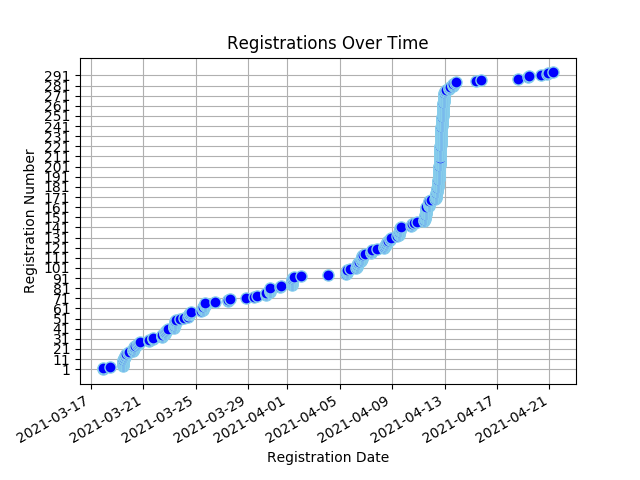
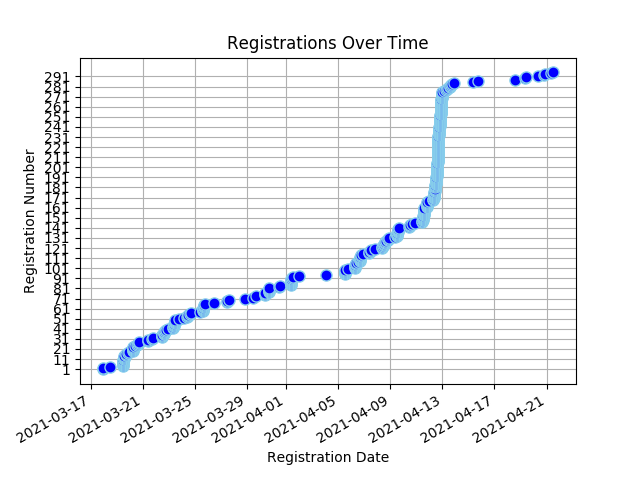
Registree stats backup on Wed 21 Apr 2021 12:57:30 SAST

diff --git a/content/registrees/_index.md b/content/registrees/_index.md
@@ -3,7 +3,7 @@ title: Registration Stats
 draft: false
 ---
 
-<ul><li><strong>Number of Registrees</strong>: 294</li>
+<ul><li><strong>Number of Registrees</strong>: 295</li>
 
 <li><strong>Number of Clubs</strong>: 69</li>
 
@@ -33,6 +33,6 @@ draft: false
         </tr>
     </thead>
     <tbody>
-<tr><td>Natalie Abrahams</td><td>Cape Town</td><td>410W</td></tr><tr><td>Alan Abramsohn</td><td>Milnerton</td><td>410W</td></tr><tr><td>Janine Abramsohn</td><td>Sea Point</td><td>410W</td></tr><tr><td>Rashid Adams</td><td>Athlone</td><td>410W</td></tr><tr><td>Linda Anderson</td><td>George</td><td>410W</td></tr><tr><td>Neale Stewart ANDREWS</td><td>Cowies Hill</td><td>410E</td></tr><tr><td>Linda Baumgarten</td><td>Sea Point</td><td>410W</td></tr><tr><td>Ulrike Behrens</td><td>Windhoek</td><td>410W</td></tr><tr><td>Cathleen Benade</td><td>Rehoboth</td><td>410W</td></tr><tr><td>Valencia Beukes-Williams</td><td>Kuilsriver</td><td>410W</td></tr><tr><td>Belinda Blakeman</td><td>North Durban</td><td>410E</td></tr><tr><td>Belinda Blakeman</td><td>North Durban</td><td>410E</td></tr><tr><td>Mel Boswell</td><td>Nelspruit</td><td>410E</td></tr><tr><td>Lyn(ette) Botha</td><td>Cowies Hill</td><td>410E</td></tr><tr><td>JOSE BRAGA BORGES</td><td>Malmesbury</td><td>410W</td></tr><tr><td>Paul Brauteseth</td><td>Port Shepstone</td><td>410E</td></tr><tr><td>Byron Brooker</td><td>Pretoria South</td><td>410E</td></tr><tr><td>Nelle Buhrmann</td><td>Sea Point</td><td>410W</td></tr><tr><td>Christopher Bull</td><td>The Wilds</td><td>410E</td></tr><tr><td>Karin Byars</td><td>Manzini</td><td>410E</td></tr><tr><td>Herman Cadman</td><td>Stellenbosch</td><td>410W</td></tr><tr><td>Artemis Calomiris</td><td>Helderberg</td><td>410W</td></tr><tr><td>Linda Ann Cannone</td><td>Fish Hoek</td><td>410W</td></tr><tr><td>Petrus Carstens</td><td>Worcester</td><td>410W</td></tr><tr><td>Lizelle Castle</td><td>Athlone</td><td>410W</td></tr><tr><td>Sue Charles</td><td>Tokai</td><td>410W</td></tr><tr><td>Lionel Chazen</td><td>Edenvale</td><td>410E</td></tr><tr><td>Perry Chetty</td><td>East Coast</td><td>410E</td></tr><tr><td>Tanyaradzwa Chinyai</td><td>Groote Schuur</td><td>410W</td></tr><tr><td>Delaney Yeltsin Cloete</td><td>Eden</td><td>410W</td></tr><tr><td>Kate Coppen</td><td>Letaba Tzaneen</td><td>410E</td></tr><tr><td>Esme Cornelius</td><td>Kuilsriver</td><td>410W</td></tr><tr><td>Sharon Cottle</td><td>Groote Schuur</td><td>410W</td></tr><tr><td>Joel d'Offay</td><td>Milnerton</td><td>410W</td></tr><tr><td>Peter Daniel</td><td>Gordons Bay</td><td>410W</td></tr><tr><td>Norma Daniel</td><td>Gordons Bay</td><td>410W</td></tr><tr><td>Melanie Davids</td><td>Alberton</td><td>410E</td></tr><tr><td>Engela de Kock</td><td>Swellendam</td><td>410W</td></tr><tr><td>Francois de Kock</td><td>Swellendam</td><td>410W</td></tr><tr><td>Charlotte de Silva</td><td>Edenvale</td><td>410E</td></tr><tr><td>ANDRE DE VILLIERS</td><td>Malgas</td><td>410W</td></tr><tr><td>Lara De Wet</td><td>Edenvale</td><td>410E</td></tr><tr><td>Benita Diener</td><td>Mitchells Plain</td><td>410W</td></tr><tr><td>Freda Dodd</td><td>Table View</td><td>410W</td></tr><tr><td>Peggy Du Plooy</td><td>Krugersdorp</td><td>410E</td></tr><tr><td>Ivan Du Plooy</td><td>Krugersdorp</td><td>410E</td></tr><tr><td>Tammy du Plooy</td><td>Alberton</td><td>410E</td></tr><tr><td>Marc du Plooy</td><td>Alberton</td><td>410E</td></tr><tr><td>Desiree du Toit</td><td>Ramsgate</td><td>410E</td></tr><tr><td>Hanè Dunn</td><td>Swellendam</td><td>410W</td></tr><tr><td>Glynn Easton</td><td>Helderkruin</td><td>410E</td></tr><tr><td>Denise Easton</td><td>Helderkruin</td><td>410E</td></tr><tr><td>Johan Els</td><td>Wilro Park</td><td>410E</td></tr><tr><td>Fadia Ely</td><td>Athlone</td><td>410W</td></tr><tr><td>Abubakr Ely</td><td>Deep South</td><td>410W</td></tr><tr><td>Freddie Erasmus</td><td>Uitenhage</td><td>410E</td></tr><tr><td>Natalie Etridge</td><td>Sedgefield</td><td>410W</td></tr><tr><td>AIDAN Ewers</td><td>Newlands</td><td>410W</td></tr><tr><td>Beate Fahrbach</td><td>Windhoek</td><td>410W</td></tr><tr><td>Roger Fahrbach</td><td>Windhoek</td><td>410W</td></tr><tr><td>Jules Flanagan</td><td>Tokai</td><td>410W</td></tr><tr><td>Charles Flanagan</td><td>Tokai</td><td>410W</td></tr><tr><td>Jéan Fouché</td><td>Worcester</td><td>410W</td></tr><tr><td>Michele Fourie</td><td>Merriman</td><td>410W</td></tr><tr><td>Lucille Fourie</td><td>Pretoria South</td><td>410E</td></tr><tr><td>Clive Fox</td><td>Merriman</td><td>410W</td></tr><tr><td>Pat Fox</td><td>Merriman</td><td>410W</td></tr><tr><td>Kelvin Foxcroft</td><td>Helderkruin</td><td>410E</td></tr><tr><td>Katherine Foxcroft</td><td>Helderkruin</td><td>410E</td></tr><tr><td>Jenny Foxcroft</td><td>Helderkruin</td><td>410E</td></tr><tr><td>Martin Froise</td><td>Letaba Tzaneen</td><td>410E</td></tr><tr><td>Allison Georges</td><td>Cape Of Good Hope</td><td>410W</td></tr><tr><td>Bernd Gerhard</td><td>Wilro Park</td><td>410E</td></tr><tr><td>Shirley Gerhard</td><td>Wilro Park</td><td>410E</td></tr><tr><td>Valerie Graham</td><td>Nelspruit</td><td>410E</td></tr><tr><td>Mike Graham</td><td>Nelspruit</td><td>410E</td></tr><tr><td>Viv Grater</td><td>Sedgefield</td><td>410W</td></tr><tr><td>Brian Gray</td><td>Durbanville</td><td>410W</td></tr><tr><td>David Griffith</td><td>The Wilds</td><td>410E</td></tr><tr><td>Matty Grobler</td><td>Henties Bay</td><td>410W</td></tr><tr><td>Christiana Groenewoud</td><td>Milnerton</td><td>410W</td></tr><tr><td>Mattheus Groves</td><td>Sedgefield</td><td>410W</td></tr><tr><td>Glyn Gunter</td><td>Malmesbury</td><td>410W</td></tr><tr><td>Clint Guthrie</td><td>Pretoria South</td><td>410E</td></tr><tr><td>Barbara Haywood</td><td>Eden</td><td>410W</td></tr><tr><td>Mike Heathcote</td><td>Port Shepstone</td><td>410E</td></tr><tr><td>Zarina Hendricks</td><td>Athlone</td><td>410W</td></tr><tr><td>ELIZABETH Hendriks</td><td>Table View</td><td>410W</td></tr><tr><td>MBULELO HERMANUS</td><td>Pretoria South</td><td>410E</td></tr><tr><td>Evelyn Herzfeld</td><td>Edenvale</td><td>410E</td></tr><tr><td>Dorothy Hess</td><td>Kuilsriver</td><td>410W</td></tr><tr><td>Wendy Higgins</td><td>Wilro Park</td><td>410E</td></tr><tr><td>Avril Hobbs</td><td>North Durban</td><td>410E</td></tr><tr><td>Trevor Hobbs</td><td>North Durban</td><td>410E</td></tr><tr><td>Jacqui Hocking</td><td>Midrand</td><td>410E</td></tr><tr><td>Cliff Hocking</td><td>Midrand</td><td>410E</td></tr><tr><td>Ellen G W Hoffmann</td><td>Windhoek</td><td>410W</td></tr><tr><td>KEITH ALEXANDER HOLLIMAN</td><td>Alberton</td><td>410E</td></tr><tr><td>Liz Houston</td><td>Table View</td><td>410W</td></tr><tr><td>John Houston</td><td>Table View</td><td>410W</td></tr><tr><td>Johan Huysamen</td><td>Malmesbury</td><td>410W</td></tr><tr><td>Alna Jackson</td><td>Pretoria Jakaranda</td><td>410E</td></tr><tr><td>Jean Jacobs</td><td>Mitchells Plain</td><td>410W</td></tr><tr><td>Dawid Jacobs</td><td>Durbanville</td><td>410W</td></tr><tr><td>WOLSLEY Jacobson</td><td>Cape Town</td><td>410W</td></tr><tr><td>Tristan Jeniker</td><td>Merriman</td><td>410W</td></tr><tr><td>MALCOLM JOHNSTON</td><td>Standerton</td><td>410E</td></tr><tr><td>Grant Jonathan</td><td>Gordons Bay</td><td>410W</td></tr><tr><td>Jos Kahn</td><td>Ceres</td><td>410W</td></tr><tr><td>Michelle Kahn</td><td>Sea Point</td><td>410W</td></tr><tr><td>Nico Kaiyamo</td><td>Tsumeb</td><td>410W</td></tr><tr><td>Faezal Karriem</td><td>Worcester</td><td>410W</td></tr><tr><td>Amanda Kemp</td><td>Milnerton</td><td>410W</td></tr><tr><td>Esmeralda Catherine Kennel</td><td>Newlands</td><td>410W</td></tr><tr><td>Jerome Kern</td><td>Groote Schuur</td><td>410W</td></tr><tr><td>Hassan Khan</td><td>Kirstenbosch</td><td>410W</td></tr><tr><td>Faniso Khoza</td><td>The Wilds</td><td>410E</td></tr><tr><td>Margie Kienast</td><td>Edenvale</td><td>410E</td></tr><tr><td>Joyce Kimari</td><td>Eden</td><td>410E</td></tr><tr><td>Ian King</td><td>Alberton</td><td>410E</td></tr><tr><td>Sandy King</td><td>Alberton</td><td>410E</td></tr><tr><td>Christa Koekemoer</td><td>Letaba Tzaneen</td><td>410E</td></tr><tr><td>Alton Koenze</td><td>Worcester</td><td>410W</td></tr><tr><td>Muya Koloko</td><td>Durbanville</td><td>410W</td></tr><tr><td>Zwaai Kruger</td><td>Sedgefield</td><td>410W</td></tr><tr><td>Pieter Kruger</td><td>Wilro Park</td><td>410E</td></tr><tr><td>Niqula Kruger</td><td>Wilro Park</td><td>410E</td></tr><tr><td>Bettina Kröning</td><td>Windhoek</td><td>410W</td></tr><tr><td>Natalie Laas</td><td>Alberton</td><td>410E</td></tr><tr><td>Susan Labuschagne</td><td>Wilro Park</td><td>410E</td></tr><tr><td>Bevil Lakay</td><td>Mitchells Plain</td><td>410W</td></tr><tr><td>Paula Lang</td><td>Gordons Bay</td><td>410W</td></tr><tr><td>Jimmy Lang</td><td>Gordons Bay</td><td>410W</td></tr><tr><td>Elke Langmaak</td><td>Windhoek</td><td>410W</td></tr><tr><td>Kai Langmaak</td><td>Windhoek</td><td>410W</td></tr><tr><td>Evelyn May Langton</td><td>Alberton</td><td>410E</td></tr><tr><td>Herman Laubscher</td><td>Ceres</td><td>410W</td></tr><tr><td>Steven Lautenbach</td><td>Pretoria South</td><td>410E</td></tr><tr><td>leandre layman</td><td>Groote Schuur</td><td>410W</td></tr><tr><td>Jeanette le Roux</td><td>Gonubie</td><td>410E</td></tr><tr><td>Heather Lee</td><td>Cape Of Good Hope</td><td>410W</td></tr><tr><td>Graeme Logan</td><td>Pretoria South</td><td>410E</td></tr><tr><td>Erika Louw</td><td>Durbanville</td><td>410W</td></tr><tr><td>Dee Love</td><td>Cowies Hill</td><td>410E</td></tr><tr><td>Rashmiya Lucas</td><td>Mitchells Plain</td><td>410W</td></tr><tr><td>Zarina Luck</td><td>Newcastle</td><td>410E</td></tr><tr><td>Pam MacRobert</td><td>Groote Schuur</td><td>410W</td></tr><tr><td>Sharon Mangwende</td><td>Cape Town</td><td>410W</td></tr><tr><td>Richard MARCHANT</td><td>The Wilds</td><td>410E</td></tr><tr><td>Beaulieu Mare</td><td>Benoni Lakes</td><td>410E</td></tr><tr><td>Nick Maré</td><td>Benoni Lakes</td><td>410E</td></tr><tr><td>Jean Masson</td><td>Port Shepstone</td><td>410E</td></tr><tr><td>LANCE MAYTHAM</td><td>Swellendam</td><td>410W</td></tr><tr><td>ROSEMARIE MAYTHAM</td><td>Swellendam</td><td>410W</td></tr><tr><td>David Mccullough</td><td>Pretoria South</td><td>410E</td></tr><tr><td>Rochelle McDonald</td><td>Vereeniging</td><td>410E</td></tr><tr><td>Alec McKerrow</td><td>Port Alfred</td><td>410E</td></tr><tr><td>Stuart McPherson</td><td>Newlands</td><td>410W</td></tr><tr><td>Mark Meltzer</td><td>The Wilds</td><td>410E</td></tr><tr><td>Elisa Metz</td><td>Milnerton</td><td>410W</td></tr><tr><td>Denis Meyer</td><td>Port Shepstone</td><td>410E</td></tr><tr><td>Roy Michas</td><td>Midrand</td><td>410E</td></tr><tr><td>Dawn Michas</td><td>Midrand</td><td>410E</td></tr><tr><td>BERNICE MILLS</td><td>Centurion</td><td>410E</td></tr><tr><td>Patrick Mills</td><td>Centurion</td><td>410E</td></tr><tr><td>Cherie Milosevich</td><td>Milnerton</td><td>410W</td></tr><tr><td>Alana Mitchell</td><td>Rustenburg</td><td>410E</td></tr><tr><td>Juan Mitchell</td><td>Rustenburg</td><td>410E</td></tr><tr><td>Virginia Mkhize</td><td>Cape Town</td><td>410W</td></tr><tr><td>Frauke E. Moeller</td><td>Windhoek</td><td>410W</td></tr><tr><td>Bernadine Moses</td><td>Cape Town</td><td>410W</td></tr><tr><td>Brian Moses</td><td>Cape Of Good Hope</td><td>410W</td></tr><tr><td>Jacques Mostert</td><td>Merriman</td><td>410W</td></tr><tr><td>Suzanne Murray</td><td>Vereeniging</td><td>410E</td></tr><tr><td>Gary Murray</td><td>Vereeniging</td><td>410E</td></tr><tr><td>Peter Mutschler</td><td>Grootfontein</td><td>410W</td></tr><tr><td>Pieter Myburg</td><td>Wellington</td><td>410W</td></tr><tr><td>Cornette Naude</td><td>Letaba Tzaneen</td><td>410E</td></tr><tr><td>Pieter Nel</td><td>George</td><td>410W</td></tr><tr><td>Tillie Nel</td><td>Eden</td><td>410W</td></tr><tr><td>Theo Nel</td><td>Pretoria South</td><td>410E</td></tr><tr><td>Mike Newlands</td><td>Port Alfred</td><td>410E</td></tr><tr><td>Sphiwe Ngobozana</td><td>Centurion</td><td>410E</td></tr><tr><td>Angela Niehaus</td><td>Bergvliet</td><td>410W</td></tr><tr><td>Rachel Nortjie</td><td>Mitchells Plain</td><td>410W</td></tr><tr><td>PDG Bokkie Oberholzer</td><td>Uitenhage</td><td>410E</td></tr><tr><td>Chris Ocker</td><td>Fish Hoek</td><td>410W</td></tr><tr><td>Jenny Ocker</td><td>Fish Hoek</td><td>410W</td></tr><tr><td>Debra Olivier</td><td>Sedgefield</td><td>410W</td></tr><tr><td>Isabella Stratton Ormandy</td><td>Milnerton</td><td>410W</td></tr><tr><td>Bronwyn Anne Paijmans</td><td>Cowies Hill</td><td>410E</td></tr><tr><td>Teresa Pantoleon</td><td>Vereeniging</td><td>410E</td></tr><tr><td>Maureen Peters</td><td>Ceres</td><td>410W</td></tr><tr><td>Sundru Pillay</td><td>Durbanville</td><td>410W</td></tr><tr><td>Patrick Pillay</td><td>Tygerberg Hills</td><td>410W</td></tr><tr><td>Tracey Polkinghorne</td><td>Kensington</td><td>410E</td></tr><tr><td>Gavin Polkinghorne</td><td>Kensington</td><td>410E</td></tr><tr><td>BRIAN PORTEOUS</td><td>Hibberdene</td><td>410E</td></tr><tr><td>Yvonne  Maureen Poyowe</td><td>Cape Of Good Hope</td><td>410W</td></tr><tr><td>Sheldon Edmund Pretorius</td><td>Merriman</td><td>410W</td></tr><tr><td>Mary-Anne Ras</td><td>Swellendam</td><td>410W</td></tr><tr><td>Leon Jacobus Ras</td><td>Swellendam</td><td>410E</td></tr><tr><td>Tabeth Rashirai</td><td>Pretoria Jakaranda</td><td>410E</td></tr><tr><td>Hugo Reniers</td><td>Nelspruit</td><td>410E</td></tr><tr><td>Sandy Roman</td><td>Bergvliet</td><td>410W</td></tr><tr><td>Mark Rossouw</td><td>Tokai</td><td>410W</td></tr><tr><td>Andrea Rothner</td><td>Eden</td><td>410W</td></tr><tr><td>Anthonie Petrus Roux</td><td>Moorreesburg</td><td>410W</td></tr><tr><td>Ingrid Russell</td><td>Fish Hoek</td><td>410W</td></tr><tr><td>Rodney Sabatier</td><td>Letaba Tzaneen</td><td>410E</td></tr><tr><td>Sharon Sampie</td><td>Bergvliet</td><td>410W</td></tr><tr><td>Vera Schatz</td><td>Windhoek</td><td>410W</td></tr><tr><td>Frank Schatz</td><td>Windhoek</td><td>410W</td></tr><tr><td>Francis Searle</td><td>Kouga</td><td>410E</td></tr><tr><td>Gloria Searle</td><td>Kouga</td><td>410E</td></tr><tr><td>Ami Sell</td><td>Windhoek</td><td>410W</td></tr><tr><td>Beryl Simpson</td><td>Cape Town</td><td>410W</td></tr><tr><td>Kenlis Sircoulomb</td><td>Windhoek</td><td>410W</td></tr><tr><td>Holger Sircoulomb</td><td>Windhoek</td><td>410W</td></tr><tr><td>Hennie Smeer</td><td>Windhoek</td><td>410W</td></tr><tr><td>Sue Smit</td><td>Centurion</td><td>410E</td></tr><tr><td>Herman Smit</td><td>Swellendam</td><td>410W</td></tr><tr><td>Santie Smit</td><td>Durbanville</td><td>410W</td></tr><tr><td>Juanita Smit</td><td>Alberton</td><td>410E</td></tr><tr><td>Jeff Smith</td><td>Port Shepstone</td><td>410E</td></tr><tr><td>Bennie Smith</td><td>Wellington</td><td>410W</td></tr><tr><td>Carmen Dolores Smith</td><td>Tokai</td><td>410W</td></tr><tr><td>David John Smith</td><td>Tokai</td><td>410W</td></tr><tr><td>LYN SNYMAN</td><td>Deep South</td><td>410W</td></tr><tr><td>Diana Sochen</td><td>Sea Point</td><td>410W</td></tr><tr><td>Ashley Stander</td><td>Krugersdorp</td><td>410E</td></tr><tr><td>Brett Jason Stander</td><td>Krugersdorp</td><td>410E</td></tr><tr><td>Max Stander</td><td>Port Alfred</td><td>410E</td></tr><tr><td>TIM STEENBERG</td><td>Wellington</td><td>410W</td></tr><tr><td>Elna Steyn</td><td>Wilro Park</td><td>410E</td></tr><tr><td>RORY stier</td><td>Deep South</td><td>410W</td></tr><tr><td>Patrick Strauss</td><td>Kuilsriver</td><td>410W</td></tr><tr><td>Melinda Lee Strydom</td><td>Alberton</td><td>410E</td></tr><tr><td>Trevor Sturges</td><td>Midrand</td><td>410E</td></tr><tr><td>Lauryn Talbot</td><td>Benoni Lakes</td><td>410E</td></tr><tr><td>Margaret Thackwell</td><td>Table View</td><td>410W</td></tr><tr><td>Pierre Theron</td><td>Midrand</td><td>410E</td></tr><tr><td>Moira Theron</td><td>Midrand</td><td>410E</td></tr><tr><td>Diane Townsend</td><td>Benoni Lakes</td><td>410E</td></tr><tr><td>Omolayo Toye</td><td>The Wilds</td><td>410E</td></tr><tr><td>David Alex Tshikala</td><td>Athlone</td><td>410W</td></tr><tr><td>Alistair Tuckett</td><td>Roodepoort Clearwater Cyber</td><td>410E</td></tr><tr><td>Rowan Tuckett</td><td>Roodepoort Clearwater Cyber</td><td>410E</td></tr><tr><td>Gail Tuckett</td><td>Roodepoort Clearwater Cyber</td><td>410E</td></tr><tr><td>Jiri Uchytil</td><td>Alberton</td><td>410E</td></tr><tr><td>Tracy Valadao</td><td>Midrand</td><td>410E</td></tr><tr><td>Carl van Blerk</td><td>Eden</td><td>410W</td></tr><tr><td>HILARY LISE VAN BREDA</td><td>Cape Town</td><td>410W</td></tr><tr><td>Marina Van de Merwe</td><td>Malmesbury</td><td>410W</td></tr><tr><td>PATRICIA VAN DER MERWE</td><td>East London Port Rex</td><td>410E</td></tr><tr><td>MARINA VAN DER MERWE</td><td>Malmesbury</td><td>410W</td></tr><tr><td>Ingrid van der Merwe</td><td>Letaba Tzaneen</td><td>410E</td></tr><tr><td>Hennie van der Westhuizen</td><td>Helderberg</td><td>410W</td></tr><tr><td>Sydney van Heerden</td><td>Wilro Park</td><td>410E</td></tr><tr><td>Sandy van Heerden</td><td>Wilro Park</td><td>410E</td></tr><tr><td>Craig van Heerden</td><td>East London Beacon Bay</td><td>410E</td></tr><tr><td>Mark van Heerden</td><td>Pretoria South</td><td>410E</td></tr><tr><td>Riaan Van Niekerk</td><td>Pretoria South</td><td>410E</td></tr><tr><td>Hilgardt Van Nieuwenhuyzen</td><td>Worcester</td><td>410E</td></tr><tr><td>Neville Van Rensburg</td><td>Moorreesburg</td><td>410W</td></tr><tr><td>Anne van Rensburg</td><td>Windhoek</td><td>410W</td></tr><tr><td>Johan van Rensburg</td><td>Windhoek</td><td>410W</td></tr><tr><td>Lorna Van Romburgh</td><td>Fish Hoek</td><td>410W</td></tr><tr><td>Alan van Wulven</td><td>Tygerberg Hills</td><td>410W</td></tr><tr><td>Deon van Wulven</td><td>Tygerberg Hills</td><td>410W</td></tr><tr><td>Jeannie van Wulven</td><td>Tygerberg Hills</td><td>410W</td></tr><tr><td>Kim van Wyk</td><td>North Durban</td><td>410E</td></tr><tr><td>Lindie van Wyk</td><td>Pretoria Jakaranda</td><td>410E</td></tr><tr><td>Willem van Wyk</td><td>Midrand</td><td>410E</td></tr><tr><td>Patricia van Wyk</td><td>Pretoria Jakaranda</td><td>410E</td></tr><tr><td>Edith Van Wyk-Nelson</td><td>Kuilsriver</td><td>410W</td></tr><tr><td>Louis Venter</td><td>Letaba Tzaneen</td><td>410E</td></tr><tr><td>Russell Volker</td><td>King William's Town</td><td>410E</td></tr><tr><td>Brian von der Decken</td><td>King William's Town</td><td>410E</td></tr><tr><td>Rinette Von Mollendorf</td><td>Durbanville</td><td>410W</td></tr><tr><td>Rochelle Vorster</td><td>Sedgefield</td><td>410W</td></tr><tr><td>Alastair Warman</td><td>Port Shepstone</td><td>410E</td></tr><tr><td>Allan Watson</td><td>Sea Point</td><td>410W</td></tr><tr><td>Alison Watson</td><td>Sedgefield</td><td>410W</td></tr><tr><td>Johanna Williams</td><td>Mitchells Plain</td><td>410W</td></tr><tr><td>Neville Williamson</td><td>Port Alfred</td><td>410E</td></tr><tr><td>Geila Wills</td><td>Athlone</td><td>410W</td></tr><tr><td>Meredith Wilter-Sturges</td><td>Midrand</td><td>410E</td></tr><tr><td>Joan Woodman</td><td>Mitchells Plain</td><td>410W</td></tr><tr><td>Rocky Wright</td><td>Table View</td><td>410W</td></tr><tr><td>Judy Young</td><td>Durbanville</td><td>410W</td></tr><tr><td>Gerry Young</td><td>Mitchells Plain</td><td>410W</td></tr><tr><td>Leonie Zucker</td><td>Milnerton</td><td>410W</td></tr><tr><td>Michelle ‘t Hart</td><td>Benoni Lakes</td><td>410E</td></tr>
+<tr><td>Natalie Abrahams</td><td>Cape Town</td><td>410W</td></tr><tr><td>Alan Abramsohn</td><td>Milnerton</td><td>410W</td></tr><tr><td>Janine Abramsohn</td><td>Sea Point</td><td>410W</td></tr><tr><td>Rashid Adams</td><td>Athlone</td><td>410W</td></tr><tr><td>Linda Anderson</td><td>George</td><td>410W</td></tr><tr><td>Neale Stewart ANDREWS</td><td>Cowies Hill</td><td>410E</td></tr><tr><td>Linda Baumgarten</td><td>Sea Point</td><td>410W</td></tr><tr><td>Ulrike Behrens</td><td>Windhoek</td><td>410W</td></tr><tr><td>Cathleen Benade</td><td>Rehoboth</td><td>410W</td></tr><tr><td>Valencia Beukes-Williams</td><td>Kuilsriver</td><td>410W</td></tr><tr><td>Belinda Blakeman</td><td>North Durban</td><td>410E</td></tr><tr><td>Belinda Blakeman</td><td>North Durban</td><td>410E</td></tr><tr><td>Mel Boswell</td><td>Nelspruit</td><td>410E</td></tr><tr><td>Lyn(ette) Botha</td><td>Cowies Hill</td><td>410E</td></tr><tr><td>JOSE BRAGA BORGES</td><td>Malmesbury</td><td>410W</td></tr><tr><td>Paul Brauteseth</td><td>Port Shepstone</td><td>410E</td></tr><tr><td>Byron Brooker</td><td>Pretoria South</td><td>410E</td></tr><tr><td>Nelle Buhrmann</td><td>Sea Point</td><td>410W</td></tr><tr><td>Christopher Bull</td><td>The Wilds</td><td>410E</td></tr><tr><td>Karin Byars</td><td>Manzini</td><td>410E</td></tr><tr><td>Herman Cadman</td><td>Stellenbosch</td><td>410W</td></tr><tr><td>Artemis Calomiris</td><td>Helderberg</td><td>410W</td></tr><tr><td>Linda Ann Cannone</td><td>Fish Hoek</td><td>410W</td></tr><tr><td>Petrus Carstens</td><td>Worcester</td><td>410W</td></tr><tr><td>Lizelle Castle</td><td>Athlone</td><td>410W</td></tr><tr><td>Sue Charles</td><td>Tokai</td><td>410W</td></tr><tr><td>Lionel Chazen</td><td>Edenvale</td><td>410E</td></tr><tr><td>Perry Chetty</td><td>East Coast</td><td>410E</td></tr><tr><td>Tanyaradzwa Chinyai</td><td>Groote Schuur</td><td>410W</td></tr><tr><td>Delaney Yeltsin Cloete</td><td>Eden</td><td>410W</td></tr><tr><td>Kate Coppen</td><td>Letaba Tzaneen</td><td>410E</td></tr><tr><td>Esme Cornelius</td><td>Kuilsriver</td><td>410W</td></tr><tr><td>Sharon Cottle</td><td>Groote Schuur</td><td>410W</td></tr><tr><td>Joel d'Offay</td><td>Milnerton</td><td>410W</td></tr><tr><td>Peter Daniel</td><td>Gordons Bay</td><td>410W</td></tr><tr><td>Norma Daniel</td><td>Gordons Bay</td><td>410W</td></tr><tr><td>Melanie Davids</td><td>Alberton</td><td>410E</td></tr><tr><td>Engela de Kock</td><td>Swellendam</td><td>410W</td></tr><tr><td>Francois de Kock</td><td>Swellendam</td><td>410W</td></tr><tr><td>Charlotte de Silva</td><td>Edenvale</td><td>410E</td></tr><tr><td>ANDRE DE VILLIERS</td><td>Malgas</td><td>410W</td></tr><tr><td>Lara De Wet</td><td>Edenvale</td><td>410E</td></tr><tr><td>Benita Diener</td><td>Mitchells Plain</td><td>410W</td></tr><tr><td>Freda Dodd</td><td>Table View</td><td>410W</td></tr><tr><td>Peggy Du Plooy</td><td>Krugersdorp</td><td>410E</td></tr><tr><td>Ivan Du Plooy</td><td>Krugersdorp</td><td>410E</td></tr><tr><td>Tammy du Plooy</td><td>Alberton</td><td>410E</td></tr><tr><td>Marc du Plooy</td><td>Alberton</td><td>410E</td></tr><tr><td>Desiree du Toit</td><td>Ramsgate</td><td>410E</td></tr><tr><td>Hanè Dunn</td><td>Swellendam</td><td>410W</td></tr><tr><td>Glynn Easton</td><td>Helderkruin</td><td>410E</td></tr><tr><td>Denise Easton</td><td>Helderkruin</td><td>410E</td></tr><tr><td>Johan Els</td><td>Wilro Park</td><td>410E</td></tr><tr><td>Fadia Ely</td><td>Athlone</td><td>410W</td></tr><tr><td>Abubakr Ely</td><td>Deep South</td><td>410W</td></tr><tr><td>Freddie Erasmus</td><td>Uitenhage</td><td>410E</td></tr><tr><td>Natalie Etridge</td><td>Sedgefield</td><td>410W</td></tr><tr><td>AIDAN Ewers</td><td>Newlands</td><td>410W</td></tr><tr><td>Beate Fahrbach</td><td>Windhoek</td><td>410W</td></tr><tr><td>Roger Fahrbach</td><td>Windhoek</td><td>410W</td></tr><tr><td>Jules Flanagan</td><td>Tokai</td><td>410W</td></tr><tr><td>Charles Flanagan</td><td>Tokai</td><td>410W</td></tr><tr><td>Jéan Fouché</td><td>Worcester</td><td>410W</td></tr><tr><td>Michele Fourie</td><td>Merriman</td><td>410W</td></tr><tr><td>Lucille Fourie</td><td>Pretoria South</td><td>410E</td></tr><tr><td>Clive Fox</td><td>Merriman</td><td>410W</td></tr><tr><td>Pat Fox</td><td>Merriman</td><td>410W</td></tr><tr><td>Kelvin Foxcroft</td><td>Helderkruin</td><td>410E</td></tr><tr><td>Katherine Foxcroft</td><td>Helderkruin</td><td>410E</td></tr><tr><td>Jenny Foxcroft</td><td>Helderkruin</td><td>410E</td></tr><tr><td>Martin Froise</td><td>Letaba Tzaneen</td><td>410E</td></tr><tr><td>Allison Georges</td><td>Cape Of Good Hope</td><td>410W</td></tr><tr><td>Bernd Gerhard</td><td>Wilro Park</td><td>410E</td></tr><tr><td>Shirley Gerhard</td><td>Wilro Park</td><td>410E</td></tr><tr><td>Valerie Graham</td><td>Nelspruit</td><td>410E</td></tr><tr><td>Mike Graham</td><td>Nelspruit</td><td>410E</td></tr><tr><td>Viv Grater</td><td>Sedgefield</td><td>410W</td></tr><tr><td>Brian Gray</td><td>Durbanville</td><td>410W</td></tr><tr><td>David Griffith</td><td>The Wilds</td><td>410E</td></tr><tr><td>Matty Grobler</td><td>Henties Bay</td><td>410W</td></tr><tr><td>Christiana Groenewoud</td><td>Milnerton</td><td>410W</td></tr><tr><td>Mattheus Groves</td><td>Sedgefield</td><td>410W</td></tr><tr><td>Glyn Gunter</td><td>Malmesbury</td><td>410W</td></tr><tr><td>Clint Guthrie</td><td>Pretoria South</td><td>410E</td></tr><tr><td>Barbara Haywood</td><td>Eden</td><td>410W</td></tr><tr><td>Mike Heathcote</td><td>Port Shepstone</td><td>410E</td></tr><tr><td>Zarina Hendricks</td><td>Athlone</td><td>410W</td></tr><tr><td>ELIZABETH Hendriks</td><td>Table View</td><td>410W</td></tr><tr><td>MBULELO HERMANUS</td><td>Pretoria South</td><td>410E</td></tr><tr><td>Evelyn Herzfeld</td><td>Edenvale</td><td>410E</td></tr><tr><td>Dorothy Hess</td><td>Kuilsriver</td><td>410W</td></tr><tr><td>Wendy Higgins</td><td>Wilro Park</td><td>410E</td></tr><tr><td>Avril Hobbs</td><td>North Durban</td><td>410E</td></tr><tr><td>Trevor Hobbs</td><td>North Durban</td><td>410E</td></tr><tr><td>Jacqui Hocking</td><td>Midrand</td><td>410E</td></tr><tr><td>Cliff Hocking</td><td>Midrand</td><td>410E</td></tr><tr><td>Ellen G W Hoffmann</td><td>Windhoek</td><td>410W</td></tr><tr><td>KEITH ALEXANDER HOLLIMAN</td><td>Alberton</td><td>410E</td></tr><tr><td>Liz Houston</td><td>Table View</td><td>410W</td></tr><tr><td>John Houston</td><td>Table View</td><td>410W</td></tr><tr><td>Johan Huysamen</td><td>Malmesbury</td><td>410W</td></tr><tr><td>Gail Jackman</td><td>Nelspruit</td><td>410E</td></tr><tr><td>Alna Jackson</td><td>Pretoria Jakaranda</td><td>410E</td></tr><tr><td>Jean Jacobs</td><td>Mitchells Plain</td><td>410W</td></tr><tr><td>Dawid Jacobs</td><td>Durbanville</td><td>410W</td></tr><tr><td>WOLSLEY Jacobson</td><td>Cape Town</td><td>410W</td></tr><tr><td>Tristan Jeniker</td><td>Merriman</td><td>410W</td></tr><tr><td>MALCOLM JOHNSTON</td><td>Standerton</td><td>410E</td></tr><tr><td>Grant Jonathan</td><td>Gordons Bay</td><td>410W</td></tr><tr><td>Jos Kahn</td><td>Ceres</td><td>410W</td></tr><tr><td>Michelle Kahn</td><td>Sea Point</td><td>410W</td></tr><tr><td>Nico Kaiyamo</td><td>Tsumeb</td><td>410W</td></tr><tr><td>Faezal Karriem</td><td>Worcester</td><td>410W</td></tr><tr><td>Amanda Kemp</td><td>Milnerton</td><td>410W</td></tr><tr><td>Esmeralda Catherine Kennel</td><td>Newlands</td><td>410W</td></tr><tr><td>Jerome Kern</td><td>Groote Schuur</td><td>410W</td></tr><tr><td>Hassan Khan</td><td>Kirstenbosch</td><td>410W</td></tr><tr><td>Faniso Khoza</td><td>The Wilds</td><td>410E</td></tr><tr><td>Margie Kienast</td><td>Edenvale</td><td>410E</td></tr><tr><td>Joyce Kimari</td><td>Eden</td><td>410E</td></tr><tr><td>Ian King</td><td>Alberton</td><td>410E</td></tr><tr><td>Sandy King</td><td>Alberton</td><td>410E</td></tr><tr><td>Christa Koekemoer</td><td>Letaba Tzaneen</td><td>410E</td></tr><tr><td>Alton Koenze</td><td>Worcester</td><td>410W</td></tr><tr><td>Muya Koloko</td><td>Durbanville</td><td>410W</td></tr><tr><td>Zwaai Kruger</td><td>Sedgefield</td><td>410W</td></tr><tr><td>Pieter Kruger</td><td>Wilro Park</td><td>410E</td></tr><tr><td>Niqula Kruger</td><td>Wilro Park</td><td>410E</td></tr><tr><td>Bettina Kröning</td><td>Windhoek</td><td>410W</td></tr><tr><td>Natalie Laas</td><td>Alberton</td><td>410E</td></tr><tr><td>Susan Labuschagne</td><td>Wilro Park</td><td>410E</td></tr><tr><td>Bevil Lakay</td><td>Mitchells Plain</td><td>410W</td></tr><tr><td>Paula Lang</td><td>Gordons Bay</td><td>410W</td></tr><tr><td>Jimmy Lang</td><td>Gordons Bay</td><td>410W</td></tr><tr><td>Elke Langmaak</td><td>Windhoek</td><td>410W</td></tr><tr><td>Kai Langmaak</td><td>Windhoek</td><td>410W</td></tr><tr><td>Evelyn May Langton</td><td>Alberton</td><td>410E</td></tr><tr><td>Herman Laubscher</td><td>Ceres</td><td>410W</td></tr><tr><td>Steven Lautenbach</td><td>Pretoria South</td><td>410E</td></tr><tr><td>leandre layman</td><td>Groote Schuur</td><td>410W</td></tr><tr><td>Jeanette le Roux</td><td>Gonubie</td><td>410E</td></tr><tr><td>Heather Lee</td><td>Cape Of Good Hope</td><td>410W</td></tr><tr><td>Graeme Logan</td><td>Pretoria South</td><td>410E</td></tr><tr><td>Erika Louw</td><td>Durbanville</td><td>410W</td></tr><tr><td>Dee Love</td><td>Cowies Hill</td><td>410E</td></tr><tr><td>Rashmiya Lucas</td><td>Mitchells Plain</td><td>410W</td></tr><tr><td>Zarina Luck</td><td>Newcastle</td><td>410E</td></tr><tr><td>Pam MacRobert</td><td>Groote Schuur</td><td>410W</td></tr><tr><td>Sharon Mangwende</td><td>Cape Town</td><td>410W</td></tr><tr><td>Richard MARCHANT</td><td>The Wilds</td><td>410E</td></tr><tr><td>Beaulieu Mare</td><td>Benoni Lakes</td><td>410E</td></tr><tr><td>Nick Maré</td><td>Benoni Lakes</td><td>410E</td></tr><tr><td>Jean Masson</td><td>Port Shepstone</td><td>410E</td></tr><tr><td>LANCE MAYTHAM</td><td>Swellendam</td><td>410W</td></tr><tr><td>ROSEMARIE MAYTHAM</td><td>Swellendam</td><td>410W</td></tr><tr><td>David Mccullough</td><td>Pretoria South</td><td>410E</td></tr><tr><td>Rochelle McDonald</td><td>Vereeniging</td><td>410E</td></tr><tr><td>Alec McKerrow</td><td>Port Alfred</td><td>410E</td></tr><tr><td>Stuart McPherson</td><td>Newlands</td><td>410W</td></tr><tr><td>Mark Meltzer</td><td>The Wilds</td><td>410E</td></tr><tr><td>Elisa Metz</td><td>Milnerton</td><td>410W</td></tr><tr><td>Denis Meyer</td><td>Port Shepstone</td><td>410E</td></tr><tr><td>Roy Michas</td><td>Midrand</td><td>410E</td></tr><tr><td>Dawn Michas</td><td>Midrand</td><td>410E</td></tr><tr><td>BERNICE MILLS</td><td>Centurion</td><td>410E</td></tr><tr><td>Patrick Mills</td><td>Centurion</td><td>410E</td></tr><tr><td>Cherie Milosevich</td><td>Milnerton</td><td>410W</td></tr><tr><td>Alana Mitchell</td><td>Rustenburg</td><td>410E</td></tr><tr><td>Juan Mitchell</td><td>Rustenburg</td><td>410E</td></tr><tr><td>Virginia Mkhize</td><td>Cape Town</td><td>410W</td></tr><tr><td>Frauke E. Moeller</td><td>Windhoek</td><td>410W</td></tr><tr><td>Bernadine Moses</td><td>Cape Town</td><td>410W</td></tr><tr><td>Brian Moses</td><td>Cape Of Good Hope</td><td>410W</td></tr><tr><td>Jacques Mostert</td><td>Merriman</td><td>410W</td></tr><tr><td>Suzanne Murray</td><td>Vereeniging</td><td>410E</td></tr><tr><td>Gary Murray</td><td>Vereeniging</td><td>410E</td></tr><tr><td>Peter Mutschler</td><td>Grootfontein</td><td>410W</td></tr><tr><td>Pieter Myburg</td><td>Wellington</td><td>410W</td></tr><tr><td>Cornette Naude</td><td>Letaba Tzaneen</td><td>410E</td></tr><tr><td>Pieter Nel</td><td>George</td><td>410W</td></tr><tr><td>Tillie Nel</td><td>Eden</td><td>410W</td></tr><tr><td>Theo Nel</td><td>Pretoria South</td><td>410E</td></tr><tr><td>Mike Newlands</td><td>Port Alfred</td><td>410E</td></tr><tr><td>Sphiwe Ngobozana</td><td>Centurion</td><td>410E</td></tr><tr><td>Angela Niehaus</td><td>Bergvliet</td><td>410W</td></tr><tr><td>Rachel Nortjie</td><td>Mitchells Plain</td><td>410W</td></tr><tr><td>PDG Bokkie Oberholzer</td><td>Uitenhage</td><td>410E</td></tr><tr><td>Chris Ocker</td><td>Fish Hoek</td><td>410W</td></tr><tr><td>Jenny Ocker</td><td>Fish Hoek</td><td>410W</td></tr><tr><td>Debra Olivier</td><td>Sedgefield</td><td>410W</td></tr><tr><td>Isabella Stratton Ormandy</td><td>Milnerton</td><td>410W</td></tr><tr><td>Bronwyn Anne Paijmans</td><td>Cowies Hill</td><td>410E</td></tr><tr><td>Teresa Pantoleon</td><td>Vereeniging</td><td>410E</td></tr><tr><td>Maureen Peters</td><td>Ceres</td><td>410W</td></tr><tr><td>Sundru Pillay</td><td>Durbanville</td><td>410W</td></tr><tr><td>Patrick Pillay</td><td>Tygerberg Hills</td><td>410W</td></tr><tr><td>Tracey Polkinghorne</td><td>Kensington</td><td>410E</td></tr><tr><td>Gavin Polkinghorne</td><td>Kensington</td><td>410E</td></tr><tr><td>BRIAN PORTEOUS</td><td>Hibberdene</td><td>410E</td></tr><tr><td>Yvonne  Maureen Poyowe</td><td>Cape Of Good Hope</td><td>410W</td></tr><tr><td>Sheldon Edmund Pretorius</td><td>Merriman</td><td>410W</td></tr><tr><td>Mary-Anne Ras</td><td>Swellendam</td><td>410W</td></tr><tr><td>Leon Jacobus Ras</td><td>Swellendam</td><td>410E</td></tr><tr><td>Tabeth Rashirai</td><td>Pretoria Jakaranda</td><td>410E</td></tr><tr><td>Hugo Reniers</td><td>Nelspruit</td><td>410E</td></tr><tr><td>Sandy Roman</td><td>Bergvliet</td><td>410W</td></tr><tr><td>Mark Rossouw</td><td>Tokai</td><td>410W</td></tr><tr><td>Andrea Rothner</td><td>Eden</td><td>410W</td></tr><tr><td>Anthonie Petrus Roux</td><td>Moorreesburg</td><td>410W</td></tr><tr><td>Ingrid Russell</td><td>Fish Hoek</td><td>410W</td></tr><tr><td>Rodney Sabatier</td><td>Letaba Tzaneen</td><td>410E</td></tr><tr><td>Sharon Sampie</td><td>Bergvliet</td><td>410W</td></tr><tr><td>Vera Schatz</td><td>Windhoek</td><td>410W</td></tr><tr><td>Frank Schatz</td><td>Windhoek</td><td>410W</td></tr><tr><td>Francis Searle</td><td>Kouga</td><td>410E</td></tr><tr><td>Gloria Searle</td><td>Kouga</td><td>410E</td></tr><tr><td>Ami Sell</td><td>Windhoek</td><td>410W</td></tr><tr><td>Beryl Simpson</td><td>Cape Town</td><td>410W</td></tr><tr><td>Kenlis Sircoulomb</td><td>Windhoek</td><td>410W</td></tr><tr><td>Holger Sircoulomb</td><td>Windhoek</td><td>410W</td></tr><tr><td>Hennie Smeer</td><td>Windhoek</td><td>410W</td></tr><tr><td>Sue Smit</td><td>Centurion</td><td>410E</td></tr><tr><td>Herman Smit</td><td>Swellendam</td><td>410W</td></tr><tr><td>Santie Smit</td><td>Durbanville</td><td>410W</td></tr><tr><td>Juanita Smit</td><td>Alberton</td><td>410E</td></tr><tr><td>Jeff Smith</td><td>Port Shepstone</td><td>410E</td></tr><tr><td>Bennie Smith</td><td>Wellington</td><td>410W</td></tr><tr><td>Carmen Dolores Smith</td><td>Tokai</td><td>410W</td></tr><tr><td>David John Smith</td><td>Tokai</td><td>410W</td></tr><tr><td>LYN SNYMAN</td><td>Deep South</td><td>410W</td></tr><tr><td>Diana Sochen</td><td>Sea Point</td><td>410W</td></tr><tr><td>Ashley Stander</td><td>Krugersdorp</td><td>410E</td></tr><tr><td>Brett Jason Stander</td><td>Krugersdorp</td><td>410E</td></tr><tr><td>Max Stander</td><td>Port Alfred</td><td>410E</td></tr><tr><td>TIM STEENBERG</td><td>Wellington</td><td>410W</td></tr><tr><td>Elna Steyn</td><td>Wilro Park</td><td>410E</td></tr><tr><td>RORY stier</td><td>Deep South</td><td>410W</td></tr><tr><td>Patrick Strauss</td><td>Kuilsriver</td><td>410W</td></tr><tr><td>Melinda Lee Strydom</td><td>Alberton</td><td>410E</td></tr><tr><td>Trevor Sturges</td><td>Midrand</td><td>410E</td></tr><tr><td>Lauryn Talbot</td><td>Benoni Lakes</td><td>410E</td></tr><tr><td>Margaret Thackwell</td><td>Table View</td><td>410W</td></tr><tr><td>Pierre Theron</td><td>Midrand</td><td>410E</td></tr><tr><td>Moira Theron</td><td>Midrand</td><td>410E</td></tr><tr><td>Diane Townsend</td><td>Benoni Lakes</td><td>410E</td></tr><tr><td>Omolayo Toye</td><td>The Wilds</td><td>410E</td></tr><tr><td>David Alex Tshikala</td><td>Athlone</td><td>410W</td></tr><tr><td>Alistair Tuckett</td><td>Roodepoort Clearwater Cyber</td><td>410E</td></tr><tr><td>Rowan Tuckett</td><td>Roodepoort Clearwater Cyber</td><td>410E</td></tr><tr><td>Gail Tuckett</td><td>Roodepoort Clearwater Cyber</td><td>410E</td></tr><tr><td>Jiri Uchytil</td><td>Alberton</td><td>410E</td></tr><tr><td>Tracy Valadao</td><td>Midrand</td><td>410E</td></tr><tr><td>Carl van Blerk</td><td>Eden</td><td>410W</td></tr><tr><td>HILARY LISE VAN BREDA</td><td>Cape Town</td><td>410W</td></tr><tr><td>Marina Van de Merwe</td><td>Malmesbury</td><td>410W</td></tr><tr><td>PATRICIA VAN DER MERWE</td><td>East London Port Rex</td><td>410E</td></tr><tr><td>MARINA VAN DER MERWE</td><td>Malmesbury</td><td>410W</td></tr><tr><td>Ingrid van der Merwe</td><td>Letaba Tzaneen</td><td>410E</td></tr><tr><td>Hennie van der Westhuizen</td><td>Helderberg</td><td>410W</td></tr><tr><td>Sydney van Heerden</td><td>Wilro Park</td><td>410E</td></tr><tr><td>Sandy van Heerden</td><td>Wilro Park</td><td>410E</td></tr><tr><td>Craig van Heerden</td><td>East London Beacon Bay</td><td>410E</td></tr><tr><td>Mark van Heerden</td><td>Pretoria South</td><td>410E</td></tr><tr><td>Riaan Van Niekerk</td><td>Pretoria South</td><td>410E</td></tr><tr><td>Hilgardt Van Nieuwenhuyzen</td><td>Worcester</td><td>410E</td></tr><tr><td>Neville Van Rensburg</td><td>Moorreesburg</td><td>410W</td></tr><tr><td>Anne van Rensburg</td><td>Windhoek</td><td>410W</td></tr><tr><td>Johan van Rensburg</td><td>Windhoek</td><td>410W</td></tr><tr><td>Lorna Van Romburgh</td><td>Fish Hoek</td><td>410W</td></tr><tr><td>Alan van Wulven</td><td>Tygerberg Hills</td><td>410W</td></tr><tr><td>Deon van Wulven</td><td>Tygerberg Hills</td><td>410W</td></tr><tr><td>Jeannie van Wulven</td><td>Tygerberg Hills</td><td>410W</td></tr><tr><td>Kim van Wyk</td><td>North Durban</td><td>410E</td></tr><tr><td>Lindie van Wyk</td><td>Pretoria Jakaranda</td><td>410E</td></tr><tr><td>Willem van Wyk</td><td>Midrand</td><td>410E</td></tr><tr><td>Patricia van Wyk</td><td>Pretoria Jakaranda</td><td>410E</td></tr><tr><td>Edith Van Wyk-Nelson</td><td>Kuilsriver</td><td>410W</td></tr><tr><td>Louis Venter</td><td>Letaba Tzaneen</td><td>410E</td></tr><tr><td>Russell Volker</td><td>King William's Town</td><td>410E</td></tr><tr><td>Brian von der Decken</td><td>King William's Town</td><td>410E</td></tr><tr><td>Rinette Von Mollendorf</td><td>Durbanville</td><td>410W</td></tr><tr><td>Rochelle Vorster</td><td>Sedgefield</td><td>410W</td></tr><tr><td>Alastair Warman</td><td>Port Shepstone</td><td>410E</td></tr><tr><td>Allan Watson</td><td>Sea Point</td><td>410W</td></tr><tr><td>Alison Watson</td><td>Sedgefield</td><td>410W</td></tr><tr><td>Johanna Williams</td><td>Mitchells Plain</td><td>410W</td></tr><tr><td>Neville Williamson</td><td>Port Alfred</td><td>410E</td></tr><tr><td>Geila Wills</td><td>Athlone</td><td>410W</td></tr><tr><td>Meredith Wilter-Sturges</td><td>Midrand</td><td>410E</td></tr><tr><td>Joan Woodman</td><td>Mitchells Plain</td><td>410W</td></tr><tr><td>Rocky Wright</td><td>Table View</td><td>410W</td></tr><tr><td>Judy Young</td><td>Durbanville</td><td>410W</td></tr><tr><td>Gerry Young</td><td>Mitchells Plain</td><td>410W</td></tr><tr><td>Leonie Zucker</td><td>Milnerton</td><td>410W</td></tr><tr><td>Michelle ‘t Hart</td><td>Benoni Lakes</td><td>410E</td></tr>
 </tbody>
 </table>

diff --git a/content/full_stats/_index.md b/content/full_stats/_index.md
@@ -17,16 +17,16 @@ draft: false
 <body>
 <h1 style="color: #000000;">Full Registration Stats</h1>
 <a href="/docs/registrees_list.xlsx">Download Registrees Excel File</a>
-<ul><li><strong>Number of Registrees</strong>: 294</li>
+<ul><li><strong>Number of Registrees</strong>: 295</li>
 <li><strong>Number of Clubs</strong>: 69</li>
 <li><strong>Club With Most Attendees</strong>: Windhoek (16 registrees)</li>
 
 <li><strong>Number of District 410W Convention Attendees</strong>: 148</li>
 <li><strong>Number of District 410W Convention Voters</strong>: 56</li>
-<li><strong>Number of District 410E Convention Attendees</strong>: 125</li>
+<li><strong>Number of District 410E Convention Attendees</strong>: 127</li>
 <li><strong>Number of District 410E Convention Voters</strong>: 51</li>
 
-<li><strong>Number of MD410 Convention Attendees</strong>: 235</li>
+<li><strong>Number of MD410 Convention Attendees</strong>: 236</li>
 <li><strong>Number of MD410 Convention Voters</strong>: 94</li>
 
 </ul>
@@ -924,7 +924,7 @@ draft: false
 <td>David Griffith</td>
 <td>The Wilds</td>
 <td>410E</td>
-<td style="background-color: lightgreen">Yes</td>
+<td>No</td>
 <td style="background-color: lightgreen">Yes</td>
 <td style="background-color: lightgreen">Yes</td>
 <td style="background-color: lightgreen">Yes</td>
@@ -1170,6 +1170,17 @@ draft: false
 <td>No</td>
 <td style="background-color: lightgreen">Yes</td>
 <td style="background-color: lightgreen">Yes</td>
+</tr>
+
+    
+<td>340</td>
+<td>Gail Jackman</td>
+<td>Nelspruit</td>
+<td>410E</td>
+<td>No</td>
+<td style="background-color: lightgreen">Yes</td>
+<td style="background-color: lightgreen">Yes</td>
+<td>No</td>
 </tr>
 
     
@@ -1661,8 +1672,8 @@ draft: false
 <td>Zarina Luck</td>
 <td>Newcastle</td>
 <td>410E</td>
-<td>No</td>
-<td>No</td>
+<td style="background-color: lightgreen">Yes</td>
+<td style="background-color: lightgreen">Yes</td>
 <td style="background-color: lightgreen">Yes</td>
 <td>No</td>
 </tr>
